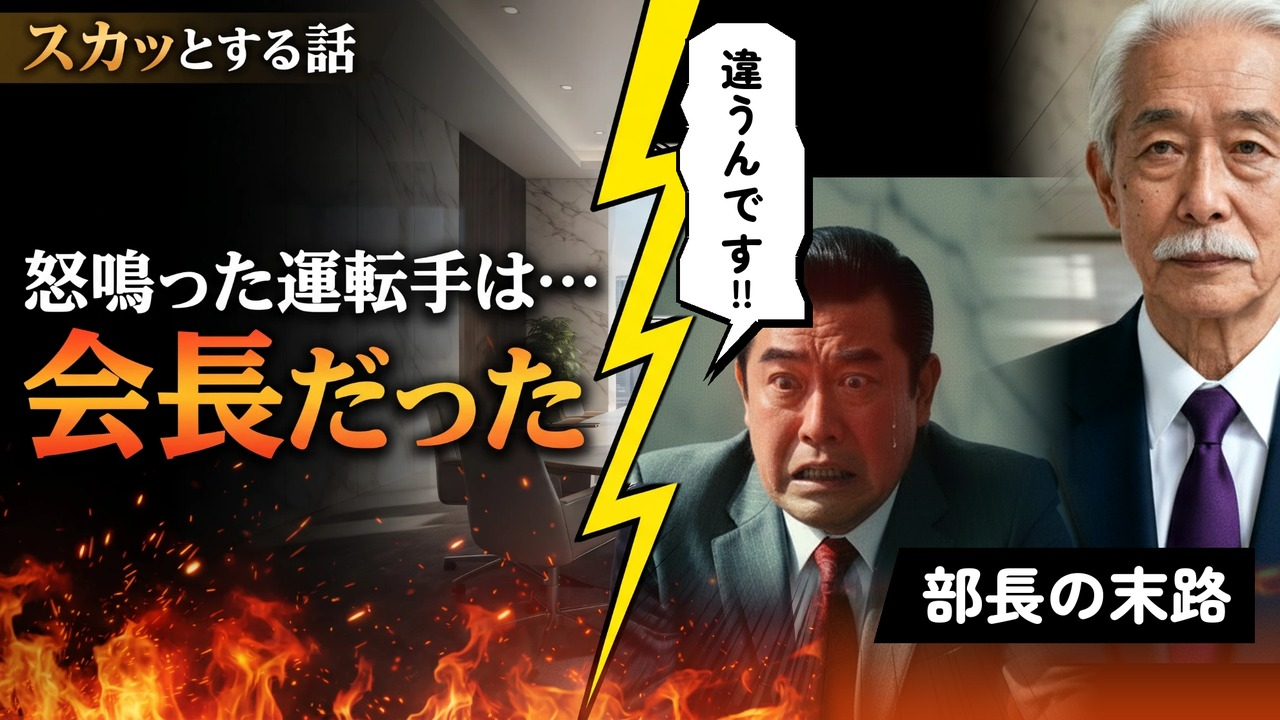
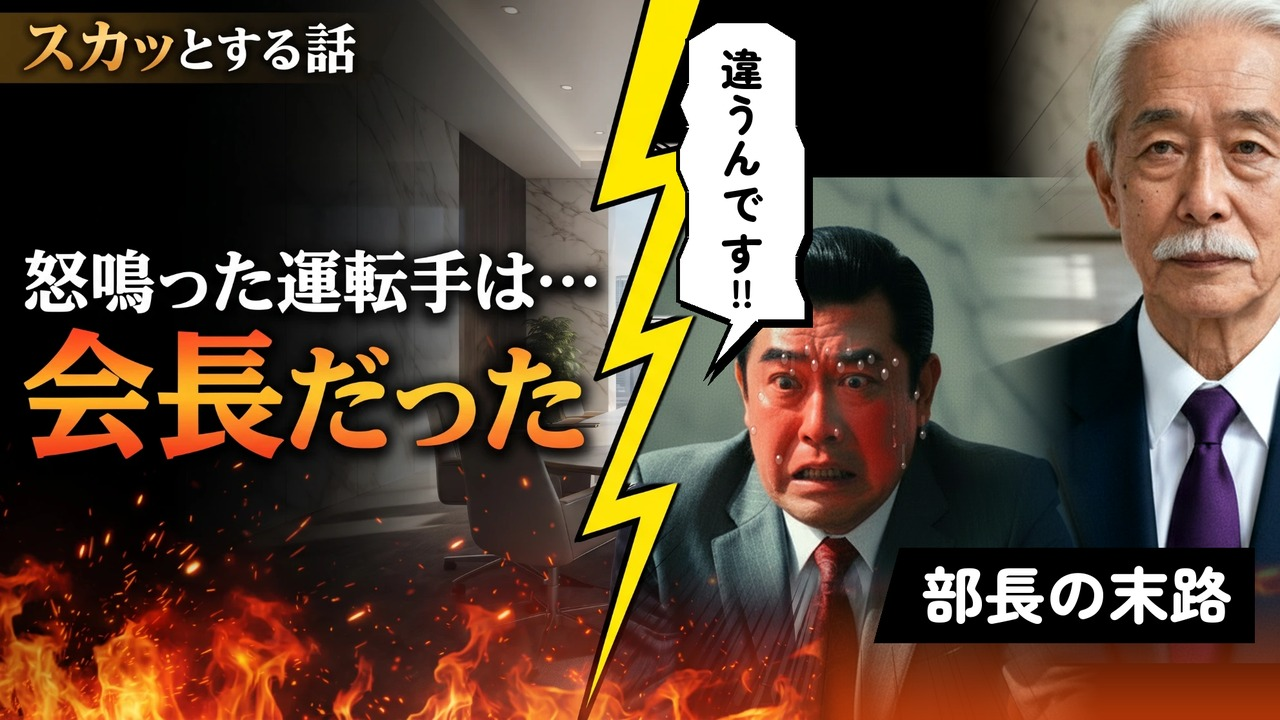
untenshu: 썸네일 A안 부장 얼굴 홍조·식은땀(고니감독님 지시)
Claude-Session: https://claude.ai/code/session_01P5TkBLDpA7gf9KcUyXo4TR

Changed region(s): [[0.5625, 0.3667, 0.7188, 0.7028]]

diff --git a/scripts/make_thumbnail_untenshu_a_final.py b/scripts/make_thumbnail_untenshu_a_final.py
@@ -1,7 +1,7 @@
 #!/usr/bin/env python3
 """『運転手のくせに』 썸네일 A안 최종(고니감독님 제작본 기반, 무과금·로컬).
 고니감독님 썸네일의 왼쪽(글자·배경·번개)은 그대로 두고, 번개 오른쪽 인물 영역을 본편 인물로 다시 합성한다.
-  부장 = 大塚(S17f: 홍조·땀·빨간 넥타이·회색 스트라이프), 회장 = 黒田(S17c: 백발 올백·흰 콧수염·남색 정장·보라 넥타이)
+  부장 = 大塚(S18f 공황 + 로컬 홍조·식은땀·빨간 넥타이·회색 스트라이프), 회장 = 黒田(S17c: 백발 올백·흰 콧수염·남색 정장·보라 넥타이)
   말풍선 「違うんです!!」(세로) 다시 그림, 「部長の末路」 박스는 재생 시간 표시 위로 올림, 1280x720 JPG.
 사용법: make_thumbnail_untenshu_a_final.py
 """
@@ -44,6 +44,40 @@ def speed_lines(center, seed, n=140, inner=330, alpha=150):
     return lay
 
 
+def flush_and_sweat(im, seed=5):
+    """얼굴 피부만 벌겋게(피부색 마스크 × 얼굴 타원) + 작은 식은땀 방울·흘러내린 자국·번들거림."""
+    a = np.array(im).astype(float)
+    r, g, b = a[..., 0], a[..., 1], a[..., 2]
+    skin = ((r > 70) & (r > g * 1.05) & (r > b * 1.15)).astype(float)
+    face = Image.new("L", im.size, 0); ImageDraw.Draw(face).ellipse((1150, 470, 1450, 790), fill=255)
+    m = np.array(face.filter(ImageFilter.GaussianBlur(35))).astype(float) / 255 * skin
+    m = np.array(Image.fromarray((m * 255).astype("uint8")).filter(ImageFilter.GaussianBlur(4))).astype(float) / 255
+    k = 0.75
+    a[..., 0] = r + (np.minimum(255, r * 1.18 + 40) - r) * m * k
+    a[..., 1] = g + (g * 0.62 - g) * m * k
+    a[..., 2] = b + (b * 0.55 - b) * m * k
+    out = Image.fromarray(np.clip(a, 0, 255).astype("uint8")).convert("RGBA")
+    rnd = random.Random(seed)
+    lay = Image.new("RGBA", im.size, (0, 0, 0, 0)); d = ImageDraw.Draw(lay)
+    spots = [(1215, 528), (1248, 520), (1282, 516), (1318, 519), (1352, 527), (1386, 538), (1232, 548), (1300, 545),
+             (1370, 556), (1176, 585), (1424, 590), (1172, 640), (1428, 648), (1300, 640), (1205, 690), (1400, 700),
+             (1265, 538), (1335, 541)]
+    for i, (x, y) in enumerate(spots):
+        x += rnd.uniform(-4, 4); y += 26 + rnd.uniform(-4, 4)
+        rr = rnd.uniform(4.0, 6.5); hh = rr * rnd.uniform(1.3, 1.8)
+        if i % 3 == 0:
+            ln = rnd.uniform(18, 34)
+            d.line([(x, y - ln), (x, y)], fill=(255, 235, 225, 28), width=int(rr * 1.4))
+        d.ellipse((x - rr, y - hh, x + rr, y + hh), fill=(120, 40, 30, 70))
+        d.ellipse((x - rr * 0.8, y - hh * 0.8, x + rr * 0.8, y + hh * 0.85), fill=(255, 230, 220, 60))
+        d.ellipse((x - rr * 0.5, y - hh * 0.65, x - rr * 0.05, y - hh * 0.2), fill=(255, 255, 255, 230))
+    out.alpha_composite(lay.filter(ImageFilter.GaussianBlur(0.6)))
+    sh = Image.new("L", im.size, 0); sd = ImageDraw.Draw(sh)
+    sd.ellipse((1240, 505, 1360, 545), fill=55); sd.ellipse((1285, 600, 1315, 680), fill=45)
+    out = Image.composite(Image.new("RGBA", im.size, (255, 236, 225, 255)), out, sh.filter(ImageFilter.GaussianBlur(14)))
+    return out.convert("RGB")
+
+
 def main():
     user = Image.open(os.path.join(TH, "src-A-user.png")).convert("RGB")
     a = np.array(user).astype(int)
@@ -65,9 +99,6 @@ def main():
     ImageDraw.Draw(km).polygon([(1600, 0), (W, 0), (W, H), (1640, H), (1600, 700)], fill=255)
     km = km.filter(ImageFilter.GaussianBlur(45))
     panel = Image.composite(kuroda, panel, km)
-    # 홍조(R51 표정과 같은 방향): 大塚 얼굴에 붉은 기
-    fl = Image.new("L", (W, H), 0); ImageDraw.Draw(fl).ellipse((1150, 400, 1430, 720), fill=95)
-    panel = Image.composite(Image.blend(panel, Image.new("RGB", (W, H), (235, 40, 30)), 0.5), panel, fl.filter(ImageFilter.GaussianBlur(45)))
     panel = ImageEnhance.Contrast(panel).enhance(1.12)
     panel = ImageEnhance.Color(panel).enhance(1.15)
     # 만화 집중선(검정)·불꽃 빛(아래 주황)
@@ -92,6 +123,8 @@ def main():
     for y in range(900, H):
         gd.line([(1270, y), (W, y)], fill=int(200 * (y - 900) / (H - 900)))
     panel = Image.composite(glow, panel, gm.filter(ImageFilter.GaussianBlur(20)))
+    # 식은땀: 이마·관자놀이·볼에 맺힌 물방울(어두운 가장자리 + 밝은 하이라이트) + 흘러내린 자국
+    panel = flush_and_sweat(panel, seed=5)
     # 왼쪽(원본) + 오른쪽(패널)
     mask = Image.new("L", (W, H), 0); md = ImageDraw.Draw(mask)
     for y in range(H):
